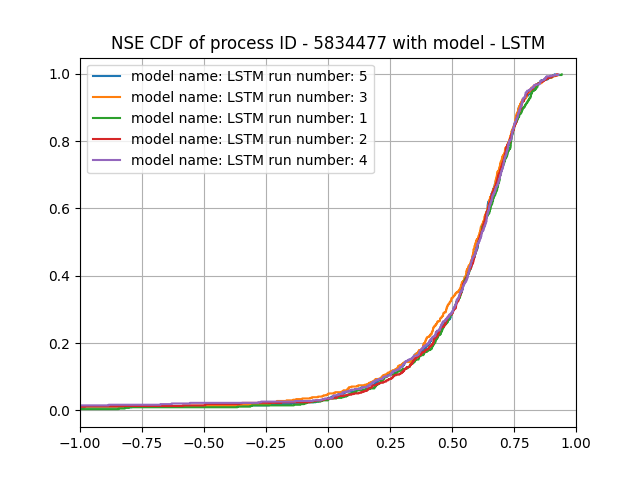
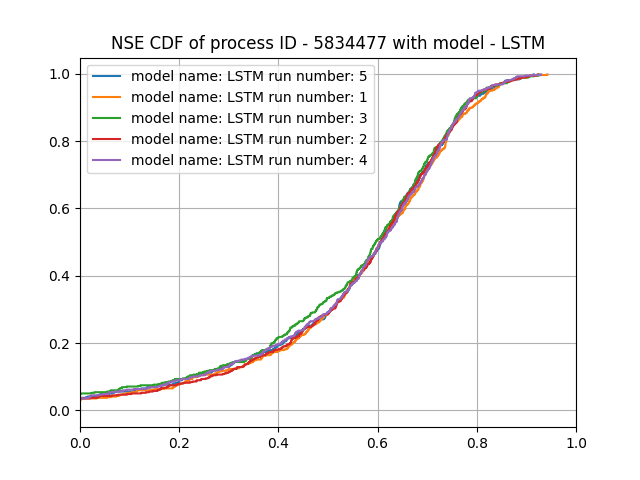
fixing CAMELS config file

diff --git a/src/calculate_NSE_per_basin.py b/src/calculate_NSE_per_basin.py
@@ -44,7 +44,7 @@ def create_dict_basin_id_to_NSE_my_code(logs_filename):
 
 
 def plot_NSE_CDF_graphs_my_code():
-    input_file_name = "slurm-5833808.out"
+    input_file_name = "slurm-5834477.out"
     d = create_dict_basin_id_to_NSE_my_code(f"{input_file_name}")
     run_numbers = set([run_number for _, run_number in d.keys()])
     model_names = set([model_name for model_name, _ in d.keys()])
@@ -91,7 +91,7 @@ def plot_CDF_NSE_basins(dict_basins_mean_NSE_loss, model_name, run_number):
     cumulative = np.cumsum(values)
     cumulative = (cumulative - np.min(cumulative)) / np.max(cumulative)
     # plt.xscale("symlog")
-    plt.xlim((-1, 1))
+    plt.xlim((0, 1))
     plt.plot(base[:-1], cumulative, label=f"model name: {model_name} run number: {run_number}")
 
 
